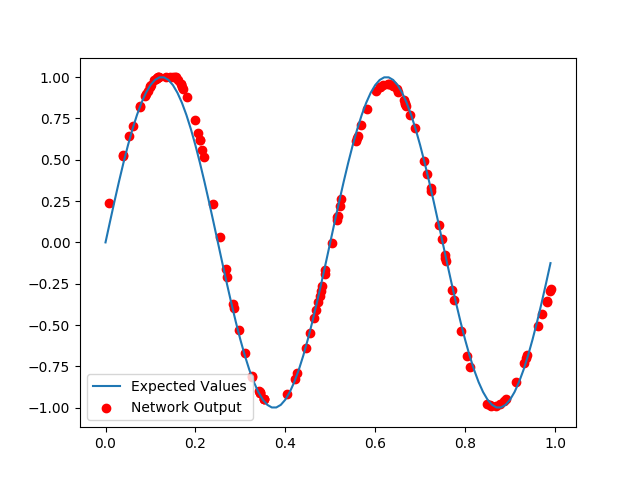
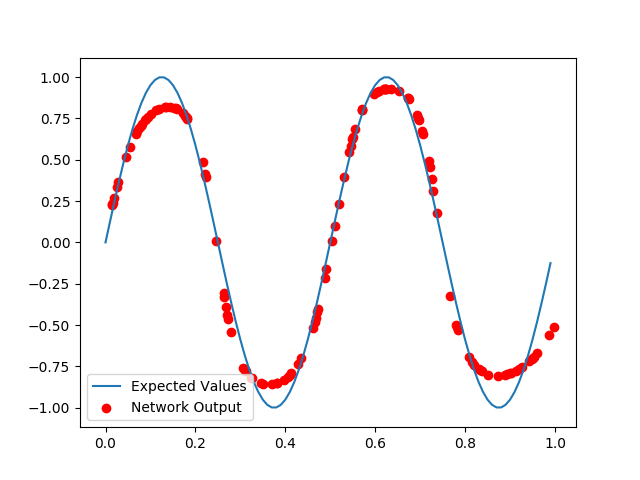
got the matric neural net working, to see difference in performace run trest_train_network.py and comment uncomment lines 4/5

diff --git a/matrix_neural_net.py b/matrix_neural_net.py
@@ -72,10 +72,6 @@ class Network:
                 len(X), len(self.__shape[0])
             ))
 
-        # z = np.dot(X, self.__weights[0]) + self.__biases[0]
-
-        # TODO: play around with this...
-        # self.__activations[0] = self.__transfer(X)
         self.__activations[0] = X
 
         for i in range(0, len(self.__activations)-1):
@@ -106,8 +102,9 @@ class Network:
             raise ValueError("Input shape incorrect. Got len %s expected len %s" % (
                 len(network_input), len(self.__shape[0])
             ))
-        error = expected_output - network_output
 
+        # Output error
+        error = expected_output - network_output
         delta = error * self.__output_transfer_derivative(network_output)
 
         for i in reversed(range(0, len(self.__weights))):
@@ -116,15 +113,19 @@ class Network:
             # error/delta of the next layer are calculated using the
             # the original weights, not the updated ones
             bias_update = delta * self.__learning_rate
-            weight_update = np.dot(self.__activations[i+1].T,
-                                   delta) * self.__learning_rate
+
+            # TODO: figure out how to avoid these reshaping operations
+            a = self.__activations[i].reshape(1, len(self.__activations[i]))
+            d = delta.reshape(1, len(delta))
+
+            weight_update = np.dot(a.T, d) * self.__learning_rate
 
             # error/ delta for the next layer of weights and biases
-            # while the error and delta are calculated for the first
-            # (input) layer, they are unused, since no other neurons
-            # depend on that layer
             error = np.dot(delta, self.__weights[i].T)
             delta = error * self.__transfer_derivative(self.__activations[i])
+
+            # TODO: figure out how to avoid this reshape operation
+            weight_update = weight_update.reshape(self.__weights[i].shape)
 
             self.__biases[i] += bias_update
             self.__weights[i] += weight_update

diff --git a/train_test_network.py b/train_test_network.py
@@ -2,8 +2,8 @@ import numpy as np
 import random
 import time
 from progress.bar import Bar
-from simple_neural_net import Network
-#from matrix_neural_net import Network
+#from simple_neural_net import Network
+from matrix_neural_net import Network
 import matplotlib.pyplot as plt
 
 
@@ -76,9 +76,9 @@ if __name__ == "__main__":
 
     network = Network(shape=(1, 10, 25, 1))
 
-    # set activation function of last layer to linear
-    for neuron in network.output_layer:
-        neuron.transfer = 'linear'
+    # # set activation function of last layer to linear
+    # for neuron in network.output_layer:
+    #     neuron.transfer = 'linear'
 
     errors = []
     num_epochs = 100
